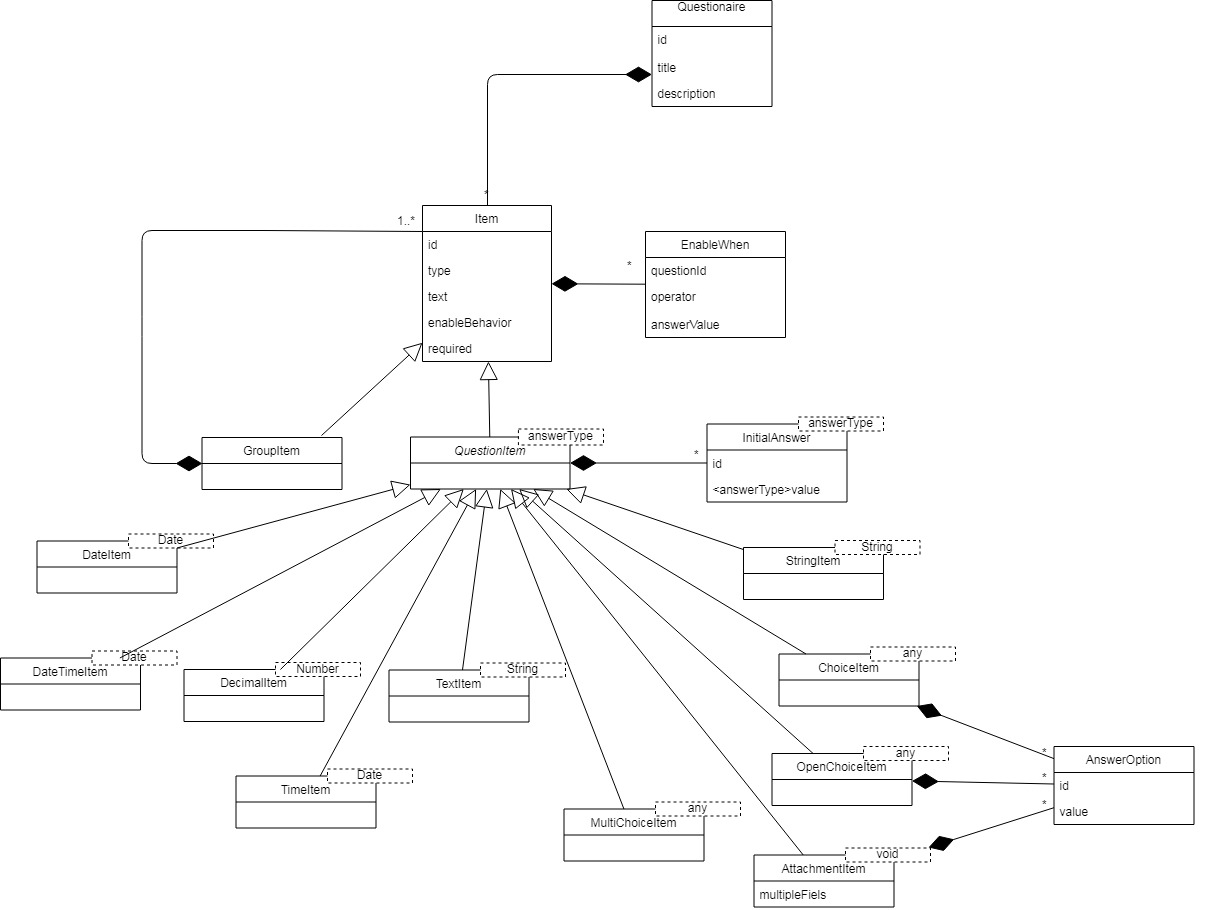
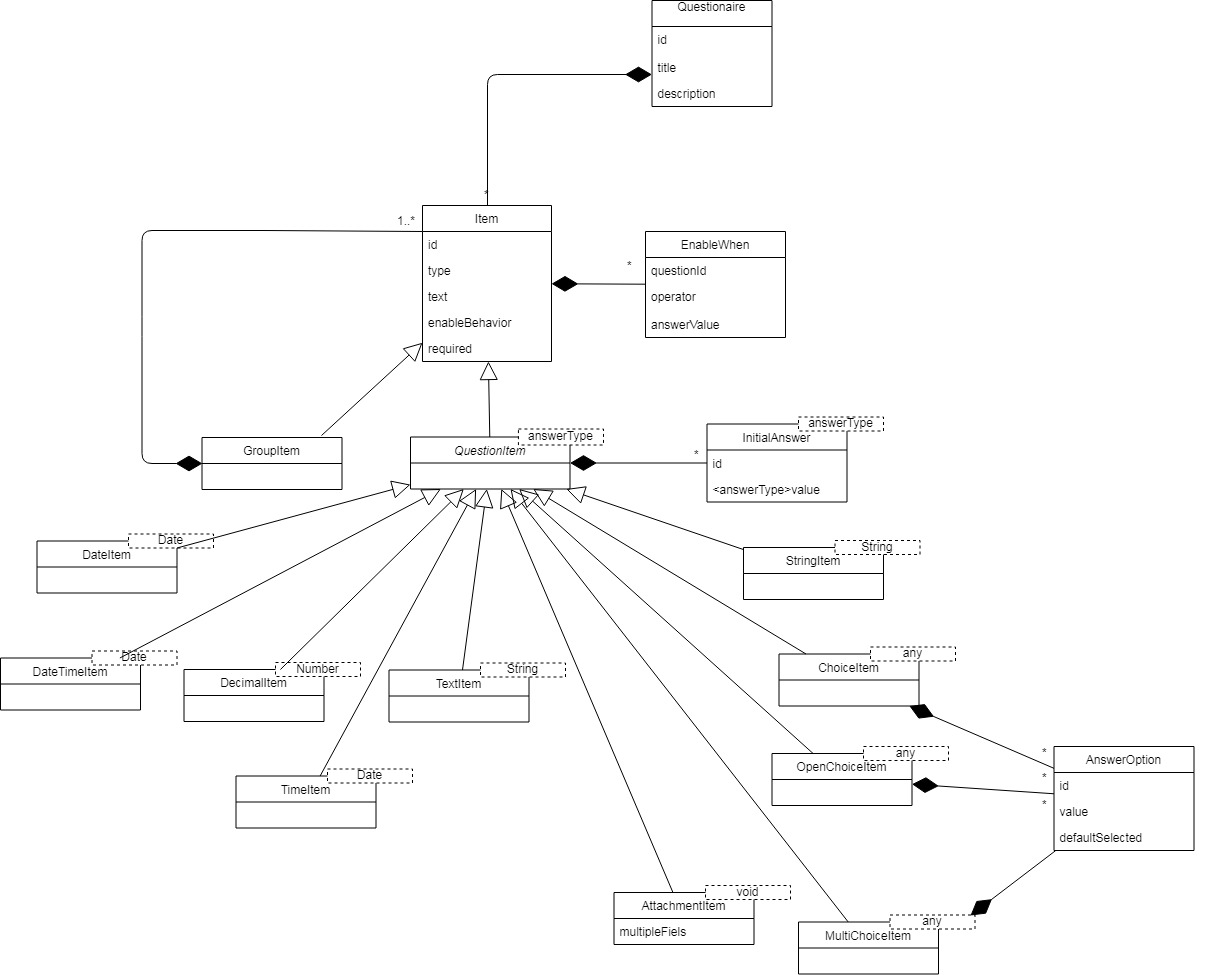
feat: added defaultSelected field into answerOption

diff --git a/packages/models/src/models/questionItems/choiceItem.ts b/packages/models/src/models/questionItems/choiceItem.ts
@@ -1,16 +1,18 @@
 import { QuestionItem, AnswerOption, AnswerOptionFactory } from "../..";
-import { observable, observableProperty, getObservable } from '@art-forms/observable';
+import { observable, observableProperty } from '@art-forms/observable';
 import { IItemCollection } from "../../interfaces/IItemCollection";
 import { IChoiceItem } from "../../interfaces/questionItems/IChoiceItem";
 import { CHOICE } from "../..";
+import IAnswerOptionCollection from "../../interfaces/IAnswerOptionCollection";
 
 @observable
-export class ChoiceItem extends QuestionItem<any> implements IChoiceItem {
+export class ChoiceItem extends QuestionItem<any> implements IChoiceItem, IAnswerOptionCollection {
     type: CHOICE = CHOICE;
     @observableProperty
     options!: AnswerOption[];
     optionIdMap: Map<string, boolean> = new Map();
     answerOptionFactory: AnswerOptionFactory = new AnswerOptionFactory(this);
+    defaultOption?: AnswerOption;
 
     constructor(item: Partial<Omit<IChoiceItem, 'type'>> | undefined, parent?: IItemCollection<IChoiceItem>) {
         super(item, parent);
@@ -23,6 +25,24 @@ export class ChoiceItem extends QuestionItem<any> implements IChoiceItem {
             this.options = item.options.map(option => this.answerOptionFactory.createAnswerOption(option));
         } else {
             this.options = [];
+        }
+    }
+
+    selectDefaultOption(answerOption: AnswerOption) {
+        const option = this.options.find(option => option.id === answerOption.id);
+        if (!option) return;
+        if (this.defaultOption) {
+            this.defaultOption.defaultSelected = false;
+        }
+        this.defaultOption = option;
+        this.defaultOption.defaultSelected = true;
+    }
+
+    unselectDefaultOption(answerOption: AnswerOption) {
+        const option = this.options.find(option => option.id === answerOption.id);
+        if (option) {
+            option.defaultSelected = false;
+            this.defaultOption = undefined;
         }
     }
 

diff --git a/packages/models/src/models/questionItems/openChoiceItem.ts b/packages/models/src/models/questionItems/openChoiceItem.ts
@@ -4,19 +4,39 @@ import { IOpenChoiceItem } from "../../interfaces/questionItems/IOpenChoiceItem"
 import { OPEN_CHOICE } from "../../constants/itemTypes";
 import { observable, observableProperty } from '@art-forms/observable';
 import AnswerOptionFactory from "../../factories/answerOptionFactory";
+import IAnswerOptionCollection from "../../interfaces/IAnswerOptionCollection";
 
 @observable
-export class OpenChoiceItem extends QuestionItem<any> implements IOpenChoiceItem {
+export class OpenChoiceItem extends QuestionItem<any> implements IOpenChoiceItem, IAnswerOptionCollection {
     type: OPEN_CHOICE = OPEN_CHOICE;
     @observableProperty
     options!: AnswerOption[];
     optionIdMap: Map<string, boolean> = new Map();
     answerOptionFactory: AnswerOptionFactory = new AnswerOptionFactory(this);
+    defaultOption?: AnswerOption;
 
     constructor(item: Partial<Omit<IOpenChoiceItem, 'type'>> | undefined, parent?: IItemCollection<IOpenChoiceItem>) {
         super(item, parent);
         this.completeOptions(item);
         this.options.forEach(option => this.optionIdMap.set(option.id, true));
+    }
+
+    selectDefaultOption(answerOption: AnswerOption) {
+        const option = this.options.find(option => option.id === answerOption.id);
+        if (!option) return;
+        if (this.defaultOption) {
+            this.defaultOption.defaultSelected = false;
+        }
+        this.defaultOption = option;
+        this.defaultOption.defaultSelected = true;
+    }
+
+    unselectDefaultOption(answerOption: AnswerOption) {
+        const option = this.options.find(option => option.id === answerOption.id);
+        if (option) {
+            option.defaultSelected = false;
+            this.defaultOption = undefined;
+        }
     }
 
     completeOptions(item?: Partial<Omit<IOpenChoiceItem, 'type'>>) {

diff --git a/packages/models/src/models/questionItems/multiChoiceItem.ts b/packages/models/src/models/questionItems/multiChoiceItem.ts
@@ -4,9 +4,10 @@ import { MULTI_CHOICE } from "../../constants/itemTypes";
 import IItemCollection from "../../interfaces/IItemCollection";
 import { observable, observableProperty } from '@art-forms/observable';
 import { AnswerOption, AnswerOptionFactory } from "../..";
+import IAnswerOptionCollection from "../../interfaces/IAnswerOptionCollection";
 
 @observable
-export class MultiChoiceItem extends QuestionItem<any> implements IMultiChoiceItem {
+export class MultiChoiceItem extends QuestionItem<any> implements IMultiChoiceItem, IAnswerOptionCollection {
     type: MULTI_CHOICE = MULTI_CHOICE;
     @observableProperty
     options!: AnswerOption[];
@@ -17,6 +18,20 @@ export class MultiChoiceItem extends QuestionItem<any> implements IMultiChoiceIt
         super(item, parent);
         this.completeOptions(item);
         this.options.forEach(option => this.optionIdMap.set(option.id, true));
+    }
+
+    selectDefaultOption(answerOption: AnswerOption) {
+        const option = this.options.find(option => option.id === answerOption.id);
+        if (option) {
+            option.defaultSelected = true;
+        }
+    }
+
+    unselectDefaultOption(answerOption: AnswerOption) {
+        const option = this.options.find(option => option.id === answerOption.id);
+        if (option) {
+            option.defaultSelected = false;
+        }
     }
 
     completeOptions(item?: Partial<Omit<IMultiChoiceItem, 'type'>>) {

diff --git a/packages/models/src/models/questionnaireResponseItem.ts b/packages/models/src/models/questionnaireResponseItem.ts
@@ -8,6 +8,7 @@ import IValidator from '../interfaces/IValidator';
 import { IItem, IGroupItem, questionResponseFactory, IQuestionItem } from '..';
 import AnswerCollection from './answersCollection';
 import JL from 'json-logic-js';
+import IChoiceItem from '../interfaces/questionItems/IChoiceItem';
 
 
 @observable
@@ -43,7 +44,15 @@ export class QuestionnaireResponseItem implements IQuestionnaireResponseItem {
             if (initialAnswers) {
                 this.answers = initialAnswers.map(initialAnswer => this.answerFactory.createAnswer(initialAnswer))
             } else {
-                this.answers = [];
+                if ((questionItem as IChoiceItem).options) {
+                    this.answers = (questionItem as IChoiceItem).options
+                        .filter(option => {
+                            return option.defaultSelected && option
+                        })
+                        .map(option => this.answerFactory.createAnswer(option))
+                } else {
+                    this.answers = [];
+                }
             }
         }
         if ((questionItem as IGroupItem).items) {

diff --git a/packages/models/src/models/answerOption.ts b/packages/models/src/models/answerOption.ts
@@ -7,11 +7,13 @@ export class AnswerOption implements IAnswerOption {
     value?: any;
     parent?: IAnswerOptionCollection;
     position!: number;
+    defaultSelected: boolean;
 
     constructor(option?: Partial<IAnswerOption>, parent?: IAnswerOptionCollection) {
         this.id = option && option.id || uuid();
         this.value = option && option.value;
         this.parent = parent;
+        this.defaultSelected = !!option && !!option.defaultSelected;
         Object.defineProperty(AnswerOption.prototype, 'position', {
             enumerable: true,
             configurable: true,
@@ -27,6 +29,14 @@ export class AnswerOption implements IAnswerOption {
                 return position;
             }
         })
+    }
+
+    selectAsDefault() {
+        this.parent && this.parent.selectDefaultOption(this);
+    }
+
+    unselectAsDefault() {
+        this.parent && this.parent.unselectDefaultOption(this);
     }
 
     updateAnswerOption(option: IAnswerOption) {

diff --git a/packages/models/src/interfaces/IAnswerOptionCollection.ts b/packages/models/src/interfaces/IAnswerOptionCollection.ts
@@ -1,9 +1,12 @@
 import IAnswerOption from "./IAnswerOption";
 import IInitialAnswerCollection from "./IInitialAnswerCollection";
+import { AnswerOption } from "..";
 
 export interface IAnswerOptionCollection extends IInitialAnswerCollection {
     removeAnswerOption(answerOption: IAnswerOption): void;
     setSingleInitialAnswer(value: any): void;
+    selectDefaultOption(answerOption: AnswerOption): void;
+    unselectDefaultOption(answerOption: AnswerOption): void;
 }
 
 export default IAnswerOptionCollection

diff --git a/packages/models/src/interfaces/IAnswerOption.ts b/packages/models/src/interfaces/IAnswerOption.ts
@@ -1,6 +1,7 @@
 export interface IAnswerOption {
     id: string;
     value?: any;
+    defaultSelected?: boolean;
 }
 
 export default IAnswerOption;
